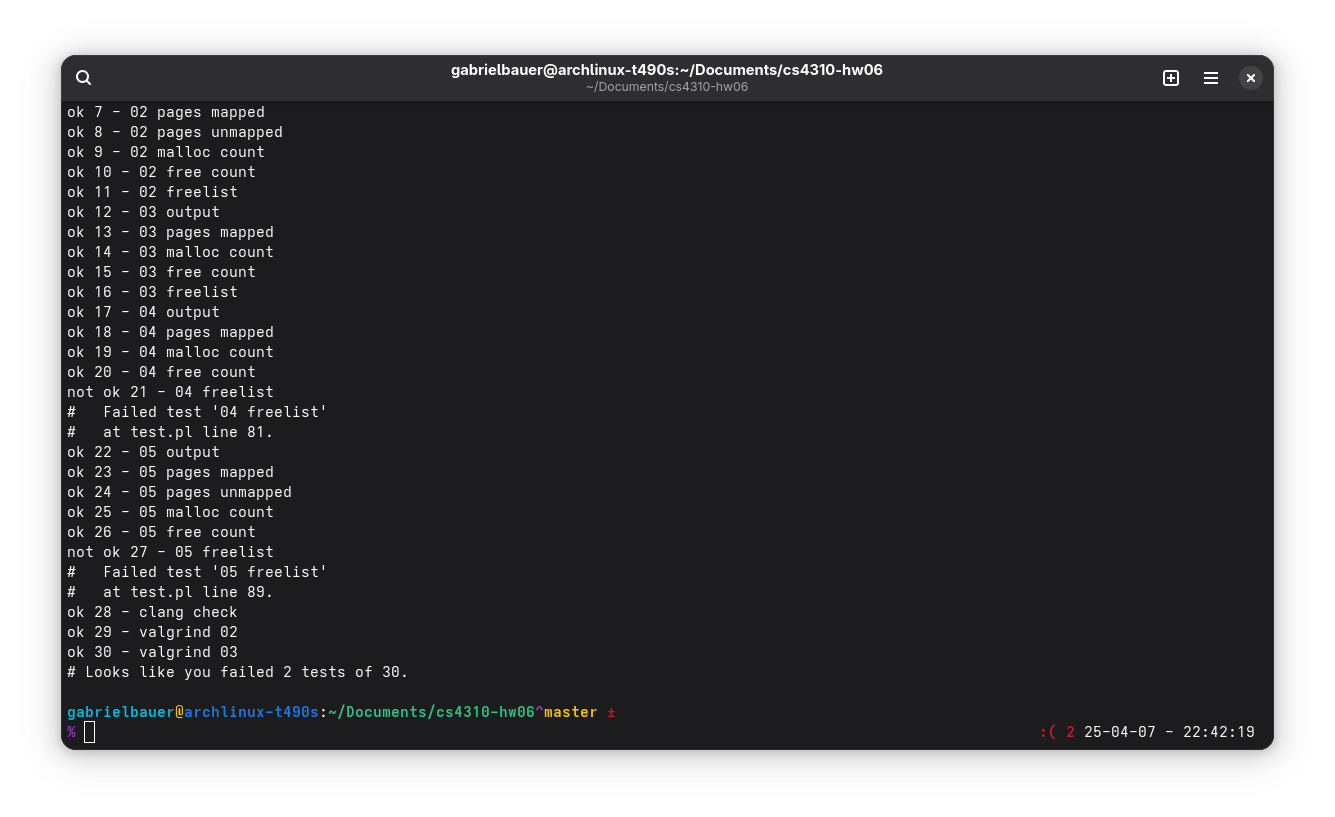
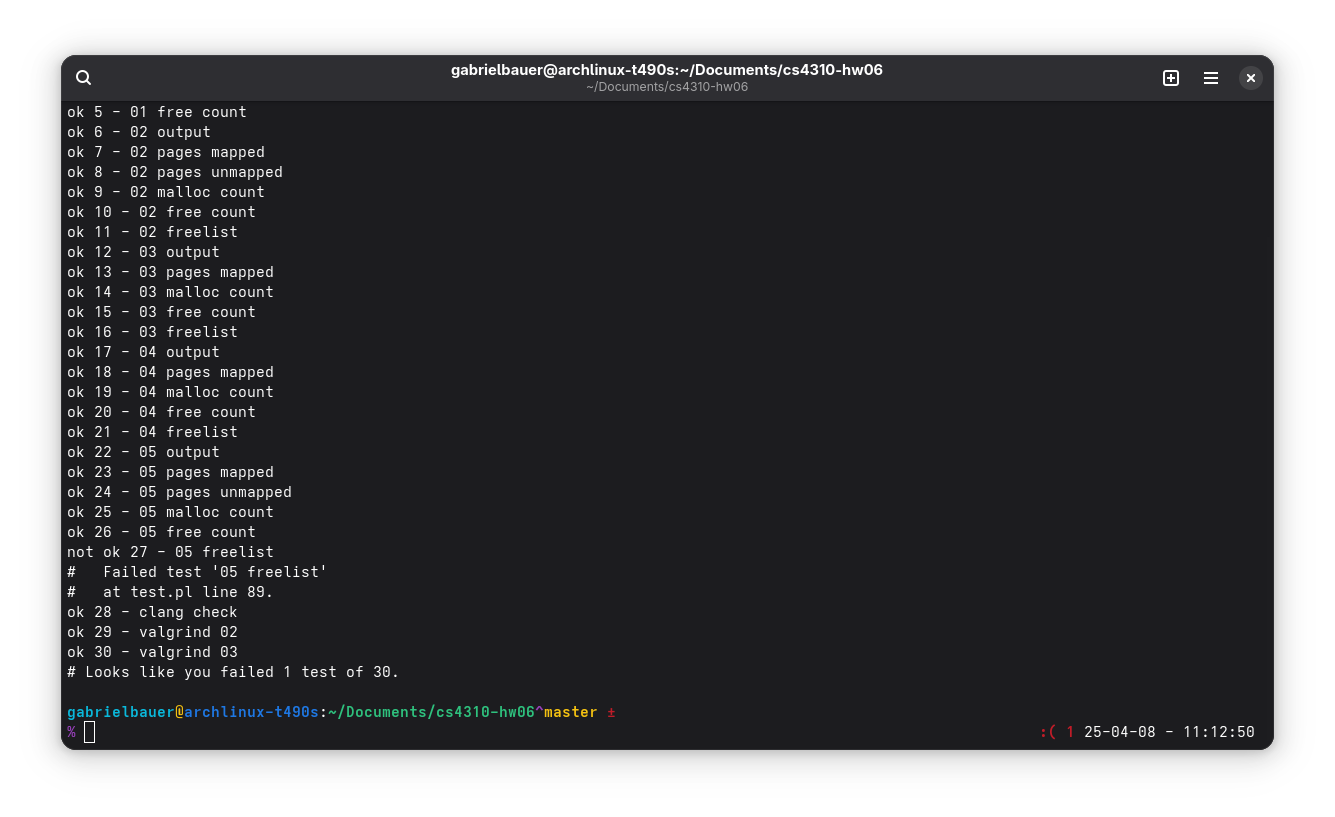
only one test left...

Changed region(s): [[0.0614, 0.1224, 0.2457, 0.5508], [0.2457, 0.7956, 0.3071, 0.8262], [0.8906, 0.8874, 0.9213, 0.918]]

diff --git a/pmalloc.c b/pmalloc.c
@@ -20,18 +20,19 @@ const size_t PAGE_SIZE = 1.3*4096;
 size_t mul = 1;
 static pm_stats stats;
 static __thread node **array;
+static __thread node **size24s;
 
 int
-findlist(void* src) {
+findlist(void* src, node **list) {
 	int i;
-	for(i=0;((uintptr_t)src/4096)!=((uintptr_t)array[i]/4096)&&array[i];i++);
+	for(i=0;((uintptr_t)src/4096)!=((uintptr_t)list[i]/4096)&&list[i];i++);
 	return i;
 }
 
 int
-nextfreelist() {
+nextfreelist(node **list) {
 	int i;
-	for(i=0;array[i]!=0;i++);
+	for(i=0;list[i]!=0;i++);
 	return i;
 }
 
@@ -63,7 +64,7 @@ pnodemerge(int list) {
 
 void
 addtolist(void* ptr, node** list) {
-	volatile int l = findlist(ptr);
+	volatile int l = findlist(ptr, array);
 	node *block = (node*)ptr;
 	node *curr = array[l];
 	node *prev = NULL;
@@ -89,19 +90,10 @@ addtolist(void* ptr, node** list) {
 
 int
 morecore() {
-	int k = nextfreelist();
+	int k = nextfreelist(array);
 	array[k] = mmap(0, PAGE_SIZE, PROT_READ|PROT_WRITE, MAP_ANONYMOUS|MAP_SHARED, -1, 0);
 	stats.pages_mapped += 1;
 	array[k]->size=PAGE_SIZE;
-	return k;
-}
-
-int
-lesscore() {
-	int k = nextfreelist();
-	array[k] = mmap(0, PAGE_SIZE/2, PROT_READ|PROT_WRITE, MAP_ANONYMOUS|MAP_SHARED, -1, 0);
-	stats.pages_mapped += 1;
-	array[k]->size=PAGE_SIZE/2;
 	return k;
 }
 
@@ -130,7 +122,7 @@ m_malloc(size_t size) {
 		}
 	}
 	k = morecore();
-	return bucket_malloc(size);
+	return m_malloc(size);
 }
 
 long list_length(node *k) {
@@ -161,6 +153,9 @@ long free_list_length() {
     long length = 0;
     for (int i=0;array[i]; i++) {
         length+=list_length(array[i]);
+    }
+    for (int i=0;size24s[i]; i++) {
+        length+=list_length(size24s[i]);
     }
     stats.free_length += length;
     return length;
@@ -240,27 +235,80 @@ pfree_helper(void *ptr) {
 
 // (uintptr_t)a / 4096 == ( uintptr_t ) b / 4096
 
+int
+lesscore() {
+	int k = nextfreelist(size24s);
+	size24s[k] = mmap(0, 4096, PROT_READ|PROT_WRITE, MAP_ANONYMOUS|MAP_SHARED, -1, 0);
+	stats.pages_mapped += 1;
+	size24s[k]->size=4096;
+	return k;
+}
+
+void
+merge24s(int k) {
+	node *curr = size24s[k];
+	node *prev = NULL;
+	while (curr) {
+		if (((uintptr_t)curr+curr->size)==((uintptr_t)curr->next)&&((uintptr_t)curr/4096)==((uintptr_t)curr->next/4096)&&curr->size<4096&&curr&&curr->next) {
+			curr->size+=curr->next->size;
+			curr->next=curr->next->next;
+		}
+		else curr = curr->next;
+	}
+}
+
+void
+addto24s(void* ptr) {
+	int k = findlist(ptr, size24s);
+	node *block = (node*)ptr;
+	node *curr = size24s[k];
+	node *prev = NULL;
+	while ((void*)block>(void*)curr&&curr) {	// Kepp the blocks sorted by where they appear in memory ;)
+		prev = curr;
+		curr = curr->next;
+	}
+	if (prev) {
+		prev->next = block;
+		block->next = curr;
+	}
+	else {
+		block->next = size24s[k];
+		size24s[k] = block;
+	}
+	merge24s(k);	// Run this command everytime you call free to merge mergeable sections...
+	node *p = size24s[k];
+	if (p->size == 4096) {
+		stats.pages_unmapped += 1;
+		munmap(&p, 4096);	// Freelist lengths?!?! Idk....
+		if (k==1)
+			size24s[k]=0;
+	}
+}
+
 void size_free(void* ptr) {
 	stats.chunks_freed += 1;
-	addtolist(ptr, array);
+	addto24s(ptr);
 }
 
 void* size24_malloc() {
 	static int k = -1;
-	static int pos = 0;
-	if (pos>24) {
-		size_t* ptr = (void*)array[k];
-		array[k] = (node*)((char*)array[k]+24);
-		array[k]->size = *ptr-24;
-		pos -= 24;
+	static int count = 1;
+	size_t* ptr;
+	if (k==-1||count==4096/24) {
+		k = lesscore();
+		count = 0;
+	}
+	ptr = (size_t*)size24s[k];
+	if (size24s[k]->size>32) {
+		size24s[k] = (node*)((char*)size24s[k]+24);
+		size24s[k]->size = *ptr-24;
 		*ptr=24;
 		stats.chunks_allocated += 1;
+		count++;
 		return ptr + 1;
-	} else {
-		k = lesscore();
-		pos = PAGE_SIZE/2;
-		return size24_malloc();
 	}
+	k = lesscore();
+	return size24_malloc();
 }
 
 /* 40, 64, 72, 136, 264, 520, 1032 */
@@ -277,7 +325,7 @@ pfree(void* ap)
   	break;
   default:
   	if(*ptr>PAGE_SIZE) big_free(ptr);
-  	else bucket_free(ptr);
+  	else m_free(ptr);
   	break;
   }
 }
@@ -289,6 +337,7 @@ pmalloc(size_t nbytes)
   if (first_run == true) {
   	personality(ADDR_NO_RANDOMIZE);
   	array=mmap(0, PAGE_SIZE, PROT_READ|PROT_WRITE, MAP_ANONYMOUS|MAP_SHARED, -1, 0);
+  	size24s=mmap(0, PAGE_SIZE, PROT_READ|PROT_WRITE, MAP_ANONYMOUS|MAP_SHARED, -1, 0);
   	first_run = false;
   }
   nbytes += sizeof(size_t);
@@ -298,6 +347,8 @@ pmalloc(size_t nbytes)
   	return size24_malloc();
   	break;
   default:
+  	nbytes -= sizeof(size_t);
+  	nbytes += sizeof(header);
   	return pmalloc_helper(nbytes);
   	break;
   }

diff --git a/pmalloc.h b/pmalloc.h
@@ -20,7 +20,6 @@ typedef struct node {
 
 typedef struct header {
 	size_t size;
-	size_t _unused;
 } header;
 
 pm_stats* pgetstats();
